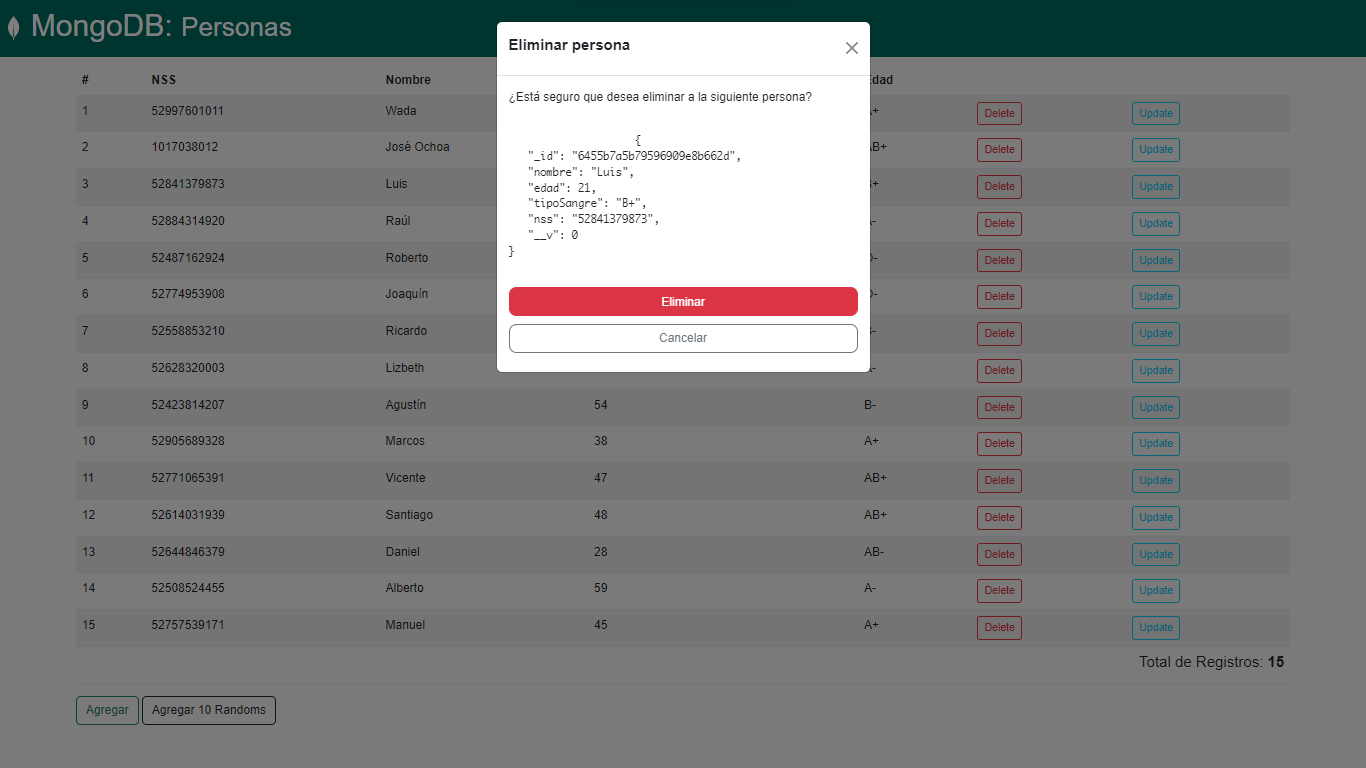
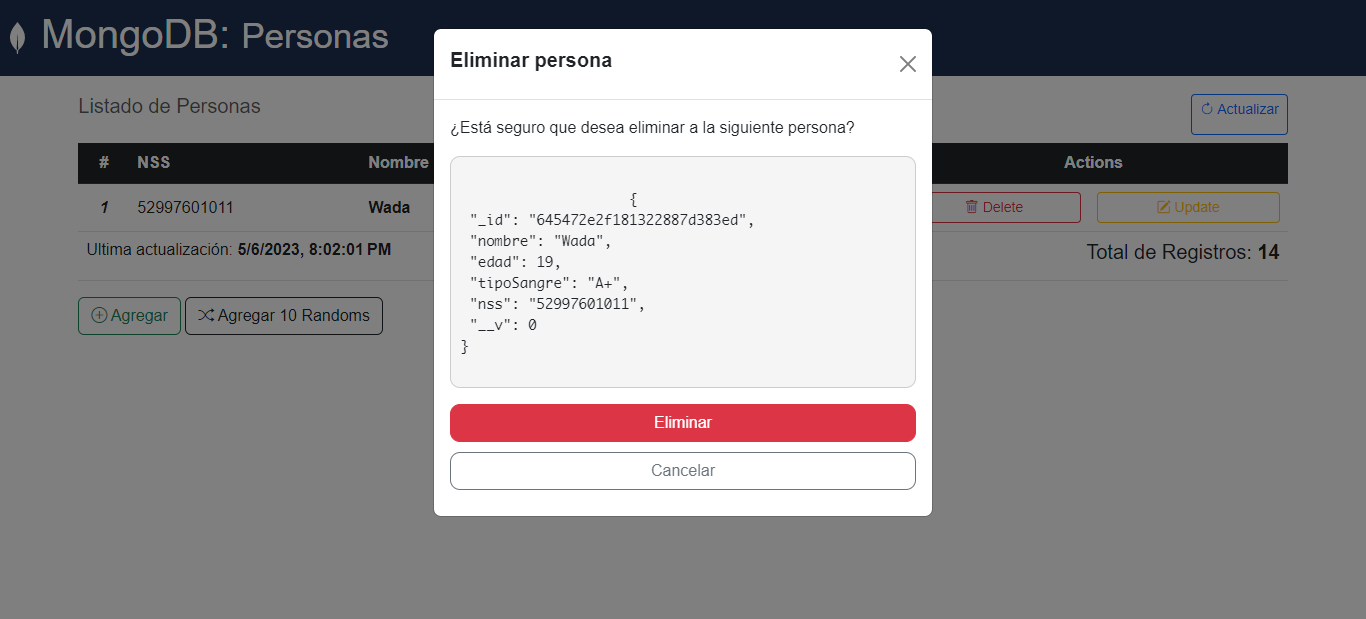
p21.2 version

diff --git a/public/styles.css b/public/styles.css
@@ -7,7 +7,7 @@
 
 body{
     font-family: 'Roboto', sans-serif !important;
-    background-color: #f5f5f5;
+    background-color: "white";
     width: 100%;
     margin: 0 auto;
 }
@@ -20,7 +20,7 @@ main {
 }
 
 header {
-    background-color: rgb(0, 104, 93);
+    background-color: rgb(30,48, 80);
     color: white;
     padding: 10px;
     display: flex;
@@ -48,8 +48,38 @@ a{
 }
 
 h3{
-    color: rgb(0,104,93) !important;
+    color: rgb(30, 48, 80) !important;
 }
-input[type="submit"]{
+input[type="submit"], input[type="search"]{
     width: 40%;
+}
+input.form-control-sm, select{
+    left: 10px;
+    width: 100%;
+}
+button{
+    width: 100%;
+}
+td{
+    vertical-align: middle;
+}
+td>a{
+    width: 100%;
+}
+th:first-child, th:last-child{
+    text-align: center;
+}
+pre{
+    background-color: #f5f5f5;
+    border: 1px solid #ccc;
+    padding: 10px;
+    border-radius: 10px;
+}
+tbody>tr>td:first-child{
+    text-align: center;
+}
+
+tr:not(tfoot>tr):hover{
+  background-color: rgb(30, 48, 80);
+  color: #fff !important;
 }

diff --git a/readme.md b/readme.md
@@ -5,26 +5,64 @@
 
 En esta práctica, utilizaremos una parte del código de la práctica anterior y necesitaremos la base de datos de MongoDB creada en la sesión anterior con documentos insertados:
 
-## Instrucciones:
+## Instrucciones
 
 - Utilizaremos TODO el código de la práctica anterior y agregaremos 2 nuevos
 endpoints, uno por GET para mostrar el formulario donde se edita un nuevo
 documento y otro por POST para actualizar el documento en la colección
 
 ### Schema MongoDB: Persons
+
 ```
 nombre: String,
 edad: Number,
 tipoSangre: String,
 nss: String
 ```
+
+# Práctica 21 (Versión P21.2)
+
+En esta nueva versión se incorporan nuevas funcionalidades y refactorizaciones en el código:
+
+### Funcionalidades
+
+- Cambios en el funcionamiento de la ruta `update`
+- Funcionalidad para buscar datos en la tabla
+- Visibilidad de la `Última Actualización de Datos`
+- Nuevo botón: `Agregar Randoms`, agrega 10 personas a la database
+
+### Características
+
+- Nuevos Estilos
+  - Implementación de Bootstrap 5
+  - Rediseño y refactorización en la interfaz
+  - Nuevo color en la etiqueta `pre` que se muestra en la modal de eliminar
+- Nuevos Iconos
+  - Implementación de iconos pertenecientes a Bootstrap 5
+  - Uso de `svg` para el ícono de MongoDb
+
+### Problemas Resueltos
+
+- Error que se encontraba en los headers de la tabla del archivo `person.ejs`
+-Ajuste en el tiempo en el que se muestra la modal de eliminación
+
 # Vista Previa
+
 !["Index"](./src/img/index.png)
+
 *Database*: Datos usados en la colección de MongoDB
 
-!["Add"](./src/img/addPersons.png)
+!["Search"](./src/img/search.png)
+
+*Buscar*: Dependiendo lo que ingrese en el campo, se mostrara una fila en la tabla con dicho contenido
+
+!["Add"](./src/img/add.png)
+
 *Agregar*: Interfaz para agregar nuevas personas a la colección
 
+!["Random"](./src/img/random.png)
+
+*Random*: Se agregan 10 personas con datos randoms
 !["Update"](./src/img/update.png)
 *Modificar*: Interfaz para editar los datos
 
